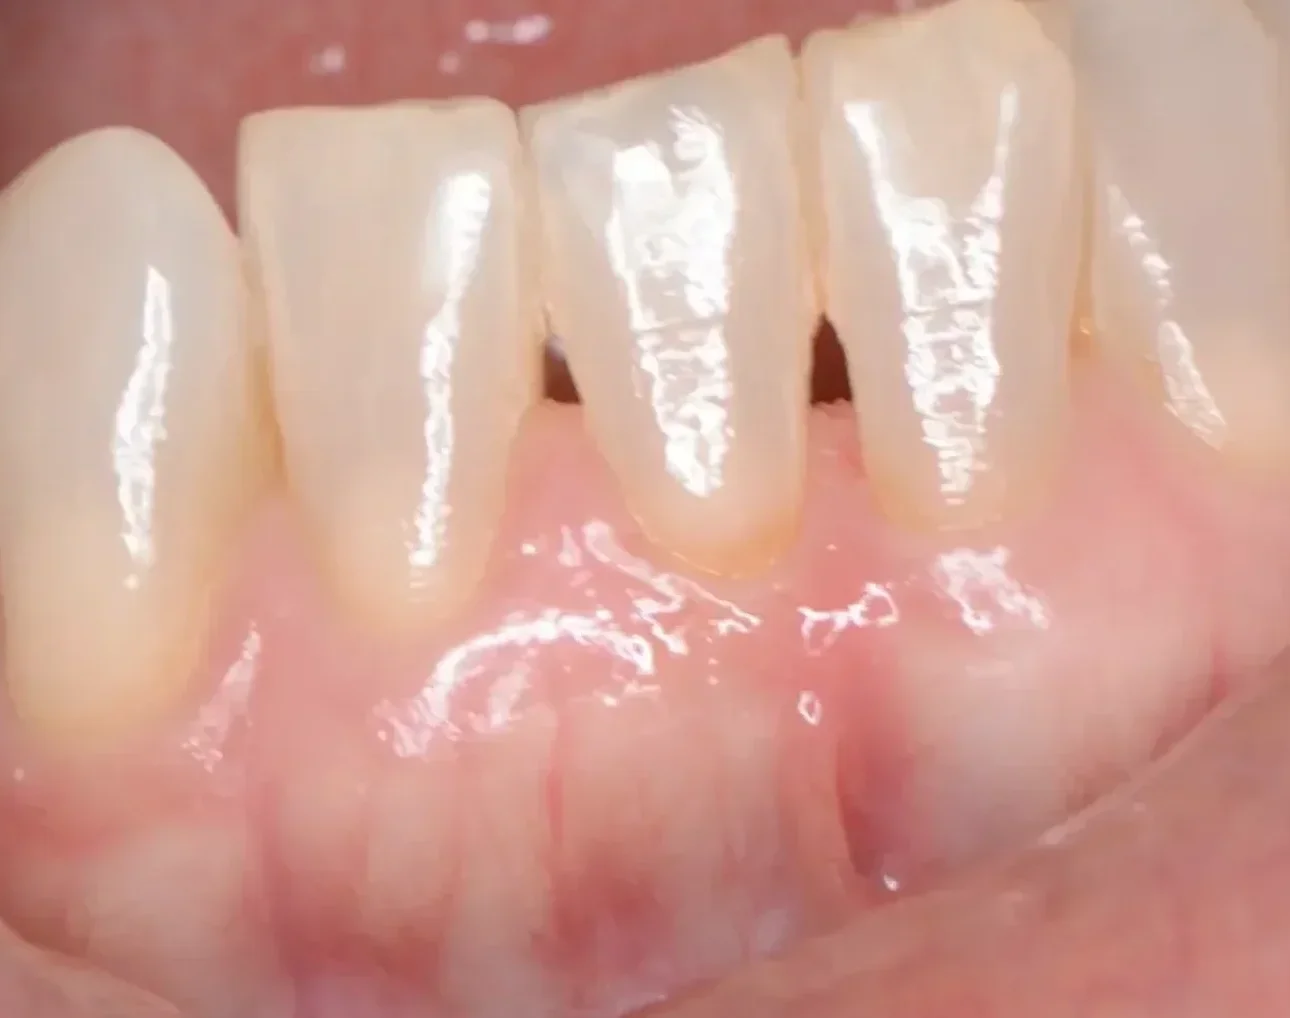
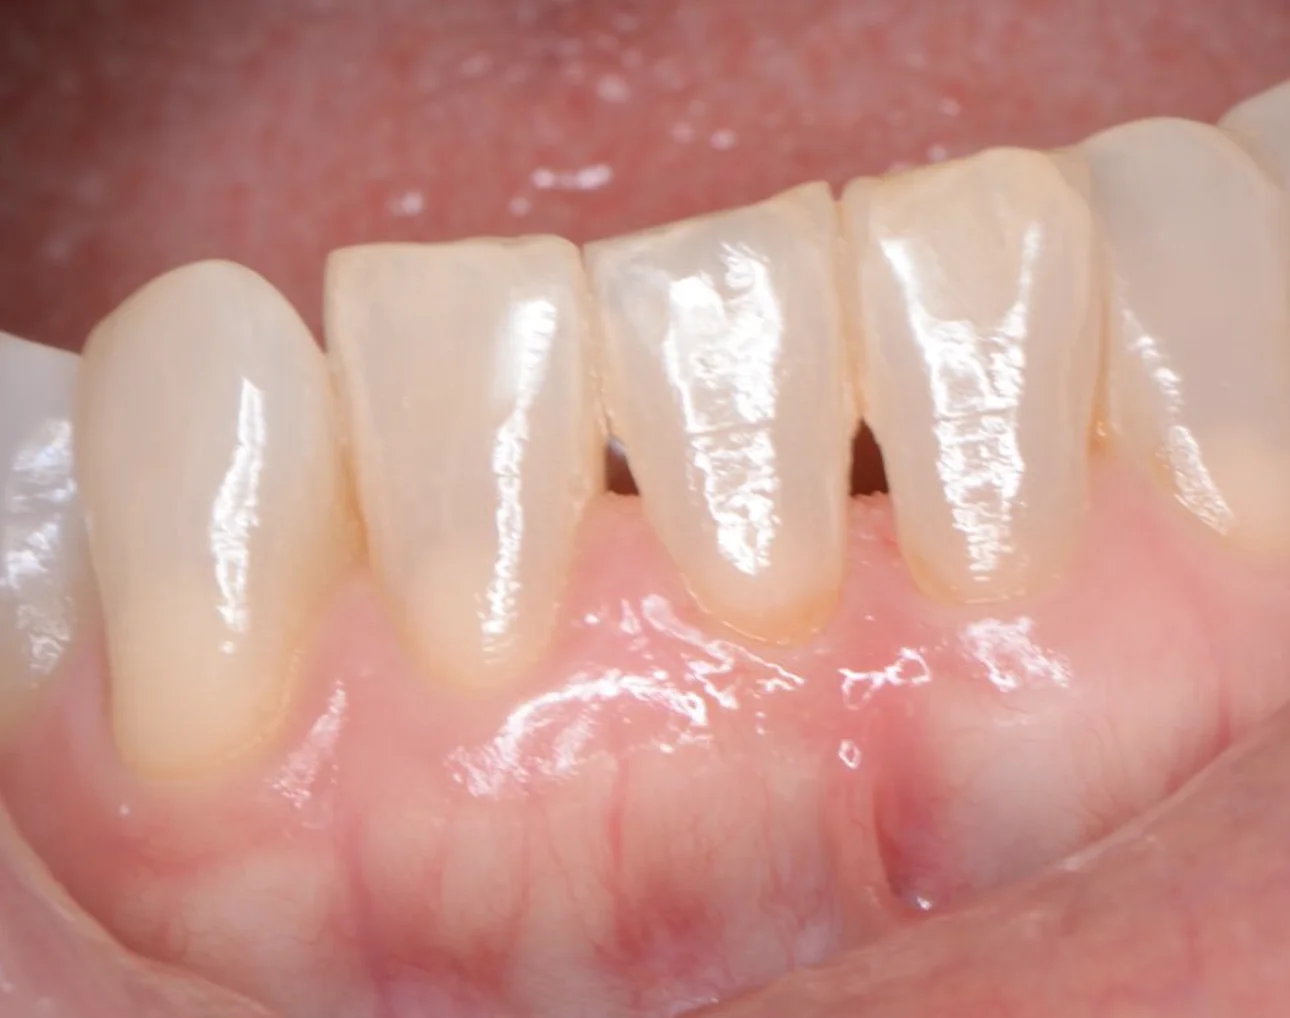
Restore original caso-1 prima image and use CSS object-position to align
No more stretching — original image restored, shifted via CSS instead.

diff --git a/index.html b/index.html
@@ -327,7 +327,7 @@
       <!-- Case 1 -->
       <div class="ba-card">
         <div class="ba-slider" data-ba>
-          <img src="images/before-after/caso-1-prima.webp" alt="Prima del riposizionamento della papilla gingivale" class="ba-before">
+          <img src="images/before-after/caso-1-prima.webp" alt="Prima del riposizionamento della papilla gingivale" class="ba-before" style="object-position:right 60%">
           <img src="images/before-after/caso-1-dopo.webp" alt="Dopo riposizionamento della papilla gingivale" class="ba-after">
           <div class="ba-line"></div>
           <div class="ba-handle"><svg viewBox="0 0 24 24"><path d="M8.5 5l-5 7 5 7M15.5 5l5 7-5 7"/><path d="M3.5 12h17" stroke="currentColor" fill="none" stroke-width="2"/></svg></div>
